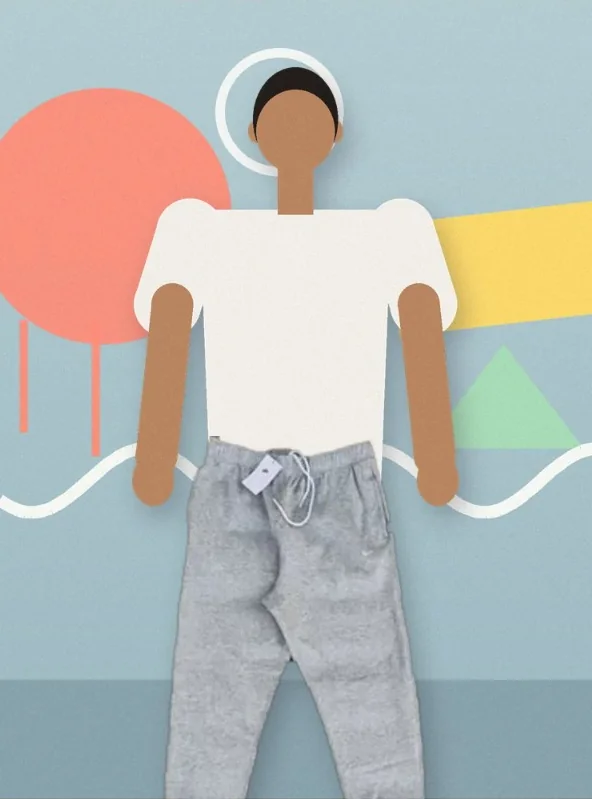
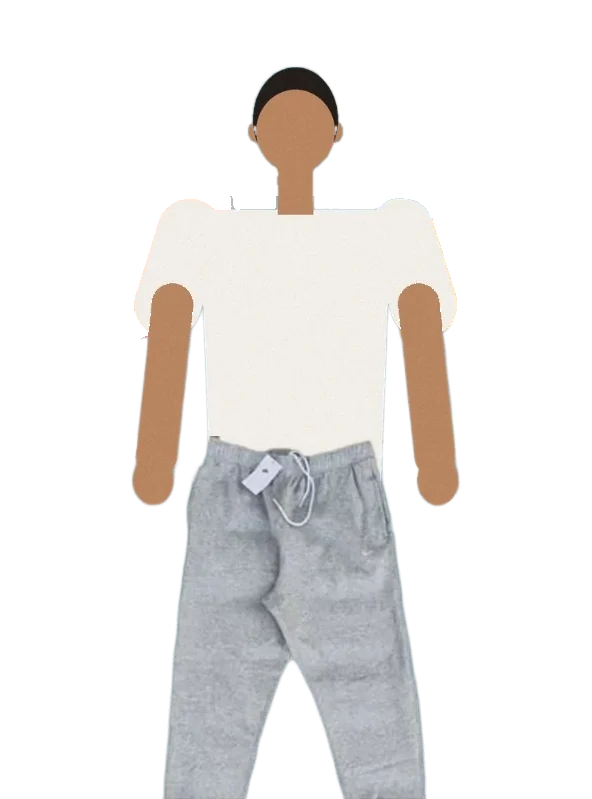
Put product shots on a neutral studio backdrop
The illustrated scene backgrounds behind each piece were too busy and
pulled focus from the clothes. Each photo is now cut out (garment plus
the illustrated figure) onto transparency and shown on a soft warm-grey
studio tone with a gentle top light, consistent across every card,
tile, hero slide, quick view and reel.

Claude-Session: https://claude.ai/code/session_01KBHqfffj2DrPytqWwY5e7i

diff --git a/public/assets/css/style.css b/public/assets/css/style.css
@@ -32,6 +32,8 @@
 
 :root {
   --bg: #f2f1ec;
+  --page: #f2f1ec;
+  --studio: #e1ddd4;
   --ink: #141519;
   --ink-soft: #2b2c31;
   --muted: #5f5f5a;
@@ -226,7 +228,7 @@ ul { padding: 0; list-style: none; }
 .hero__facts dd { margin-top: 4px; font-size: 13px; font-weight: 600; font-stretch: 112%; text-transform: uppercase; letter-spacing: 0.04em; }
 
 .hero__visual { position: relative; width: 100%; }
-.hero__frame { position: relative; aspect-ratio: 4 / 5; overflow: hidden; background: var(--sand); }
+.hero__frame { position: relative; aspect-ratio: 4 / 5; overflow: hidden; background: var(--studio); }
 .hero__slide { position: absolute; inset: 0; background: var(--bg); clip-path: inset(100% 0 0 0); z-index: 0; }
 .hero__slide img { width: 100%; height: 100%; object-fit: cover; object-position: 50% 20%; transform: scale(1.12); }
 .hero__slide.is-active { z-index: 2; clip-path: inset(0 0 0 0); transition: clip-path 1.2s var(--ease-io); }
@@ -275,7 +277,7 @@ ul { padding: 0; list-style: none; }
 .marquee { position: relative; overflow: hidden; cursor: grab; touch-action: pan-y; user-select: none; -webkit-user-select: none; }
 .marquee.is-dragging { cursor: grabbing; }
 .marquee__track { display: flex; width: max-content; will-change: transform; }
-.tile { position: relative; flex: none; width: clamp(230px, 20.6vw, 340px); aspect-ratio: 3 / 4; overflow: hidden; background: var(--bg); text-align: left; }
+.tile { position: relative; flex: none; border-right: 1px solid var(--page); width: clamp(230px, 20.6vw, 340px); aspect-ratio: 3 / 4; overflow: hidden; background: var(--bg); text-align: left; }
 .tile img { width: 100%; height: 100%; object-fit: cover; object-position: 50% 15%; transition: transform 1.2s var(--ease); pointer-events: none; -webkit-user-drag: none; }
 .tile:hover img { transform: scale(1.06); }
 .tile__tag {
@@ -669,6 +671,11 @@ ul { padding: 0; list-style: none; }
 }
 .cursor.is-on { transform: translate3d(var(--x), var(--y), 0) scale(1); }
 .cursor.is-down { transform: translate3d(var(--x), var(--y), 0) scale(0.82); }
+
+/* Product shots sit on a soft studio sweep: flat tone from the product data + a gentle top light */
+.hero__slide, .tile, .cat, .card__media, .qv__media, .about-strip__item, .notfound__media, .result__img, .line-item__img, .reel {
+  background-image: radial-gradient(110% 80% at 50% 26%, rgba(255, 255, 255, 0.38), rgba(255, 255, 255, 0) 68%);
+}
 
 /* ==========================================================================
    Responsive

diff --git a/public/assets/js/main.js b/public/assets/js/main.js
@@ -192,7 +192,7 @@ function renderBag() {
     .map((l, i) => {
       const p = P[l.id];
       return `<div class="line-item" style="animation-delay:${i * 40}ms">
-        <button type="button" class="line-item__img" data-quickview="${p.id}" style="background:${p.bg}" aria-label="View ${p.name}"><img src="${src(p, true)}" alt="" width="84" height="105"></button>
+        <button type="button" class="line-item__img" data-quickview="${p.id}" style="background-color:${p.bg}" aria-label="View ${p.name}"><img src="${src(p, true)}" alt="" width="84" height="105"></button>
         <div>
           <h3>${p.name}</h3>
           <p class="line-item__meta">Size ${l.size} · ${p.colour}</p>
@@ -277,7 +277,7 @@ function openQuickView(id) {
   qv.dataset.id = id;
   const media = $('[data-qv-media]', qv);
   media.replaceChildren(el('img', { src: src(p), alt: p.alt, width: p.img.w, height: p.img.h }));
-  media.style.background = p.bg;
+  media.style.backgroundColor = p.bg;
   if (p.badge) media.append(el('span', { className: 'tag', textContent: p.badge }));
   $('[data-qv-cat]', qv).textContent = `${data.categories[p.category]} · ${p.colour}`;
   $('[data-qv-name]', qv).textContent = p.name;
@@ -317,7 +317,7 @@ function runSearch() {
   $('[data-search-count]').textContent = terms.length ? `${hits.length} result${hits.length === 1 ? '' : 's'} for “${q}”` : `Everything in the drop — ${pad(hits.length)} pieces`;
   $('[data-search-results]').innerHTML = hits.length
     ? hits.map((p, i) => `<button type="button" class="result" data-quickview="${p.id}" style="--i:${i}">
-        <span class="result__img" style="background:${p.bg};display:block"><img src="${src(p, true)}" alt="" width="420" height="525" loading="lazy"></span>
+        <span class="result__img" style="background-color:${p.bg};display:block"><img src="${src(p, true)}" alt="" width="420" height="525" loading="lazy"></span>
         <p><span>${mark(p.name)}</span><span>${fmt(p.price)}</span></p></button>`).join('')
     : `<p style="grid-column:1/-1;color:var(--muted)">Nothing matches that — try “fleece” or “jacket”.</p>`;
 }
